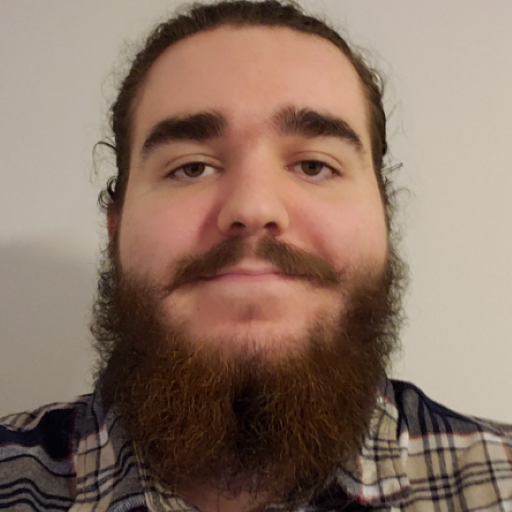
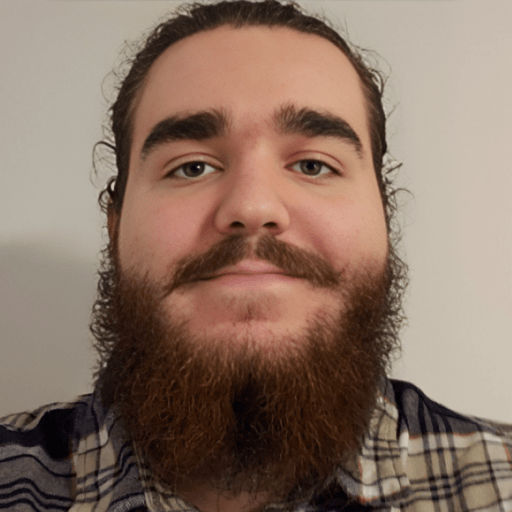
"About" sections updates
Improve mine & Felix's summaries & better quality pictures (I have a temp phot in now, got told to swap the photo for something more looking into camera)

diff --git a/web/frontend/trade-mind/src/pages/About.js b/web/frontend/trade-mind/src/pages/About.js
@@ -22,9 +22,10 @@ export default function About() {
     const kevinGithub = "https://github.com/kbaggott1";
     const kevinEmail = "kevin.baggott1@gmail.com";
 
-    const carsonSummary = "Hi, my name is Carson! I'm currently a 3rd year computer science student with a focus on software development! " + 
-    "My first experience with coding was an extra-curricular program at the YMCA for a Web Programming course back in 2018. Having not been a big fan of school, I was really surprised at how much I enjoyed taking that course. " + 
-    "Hobby-wise, I spend most of my free time either listening to music or working out.";
+    const carsonSummary = "Hi, my name is Carson! I'm currently a third year Computer Science student with a focus on software development! " + 
+    "My first experience with coding was through an extra-curricular Web Programming course I took at my local YMCA back in 2018. That course was what ignited my love for this field. " + 
+    "When you spend a lot of time coding, it's important to have something to keep you relaxed and for me, that's listening to music! " + 
+    "In my free time, I like to work out, play some games with friends, and watch movies.";
     const carsonPortfolio = "https://carsonsgit.github.io/";
     const carsonLinkedIn = "https://www.linkedin.com/in/carson-spriggs-audet-609372217/"
     const carsonGithub = "https://github.com/carsonSgit";
@@ -39,8 +40,8 @@ export default function About() {
     const cindyEmail = "cindycoulibaly10@gmail.com";
 
     const felixSummary = "I'm a junior game developer with a keen interest in AI currently in my third year at LaSalle College." + 
-    " My interest in coding is due to all the time i spent as a child playing on computers!" + 
-    " My hobbies include but are not limited to taking care of plants and playing games.";
+    " My interest in coding is stems from all the time I spent as a child playing on computers!" + 
+    " My hobbies include, but are not limited to, taking care of plants in my garden, playing games, and listening to all kinds of music.";
     const felixPortfolio = "https://github.com/Felixs123";
     const felixLinkedIn = "https://www.linkedin.com/in/felix-st-laurent-816aa12b3/"
     const felixGithub = "https://github.com/Felixs123";
@@ -57,7 +58,7 @@ export default function About() {
             <AboutPageText textContent={cristianoSummary} nameContent="Cristiano Fazi" side="left" site={cristianoPortfolio} github={cristianoGithub} linkdin={cristianoLinkedIn} email={cristianoEmail}/>
           </div>
           <div className="row">
-            <AboutPageImage imageUrl="../about/carsonspriggs.jpg" side="right" />
+            <AboutPageImage imageUrl="../about/carsonspriggs.png" side="right" />
             <AboutPageText textContent={carsonSummary} nameContent="Carson Spriggs" side="right" site={carsonPortfolio} github={carsonGithub} linkdin={carsonLinkedIn} email={carsonEmail}/>
           </div>
           <div className="row">
